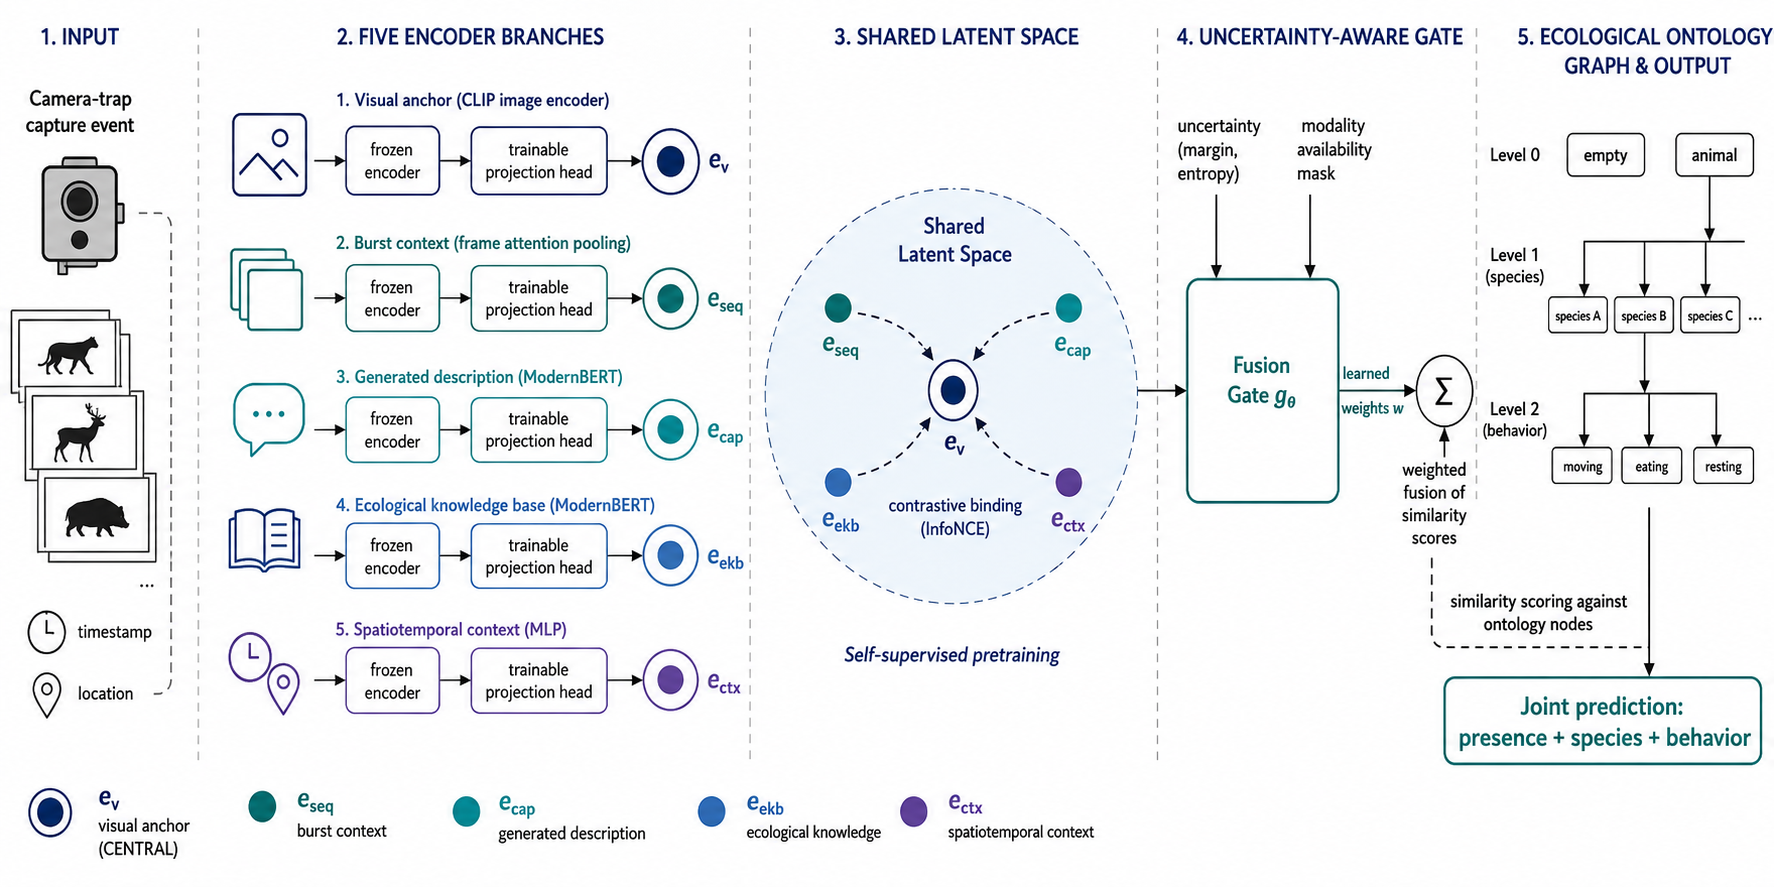
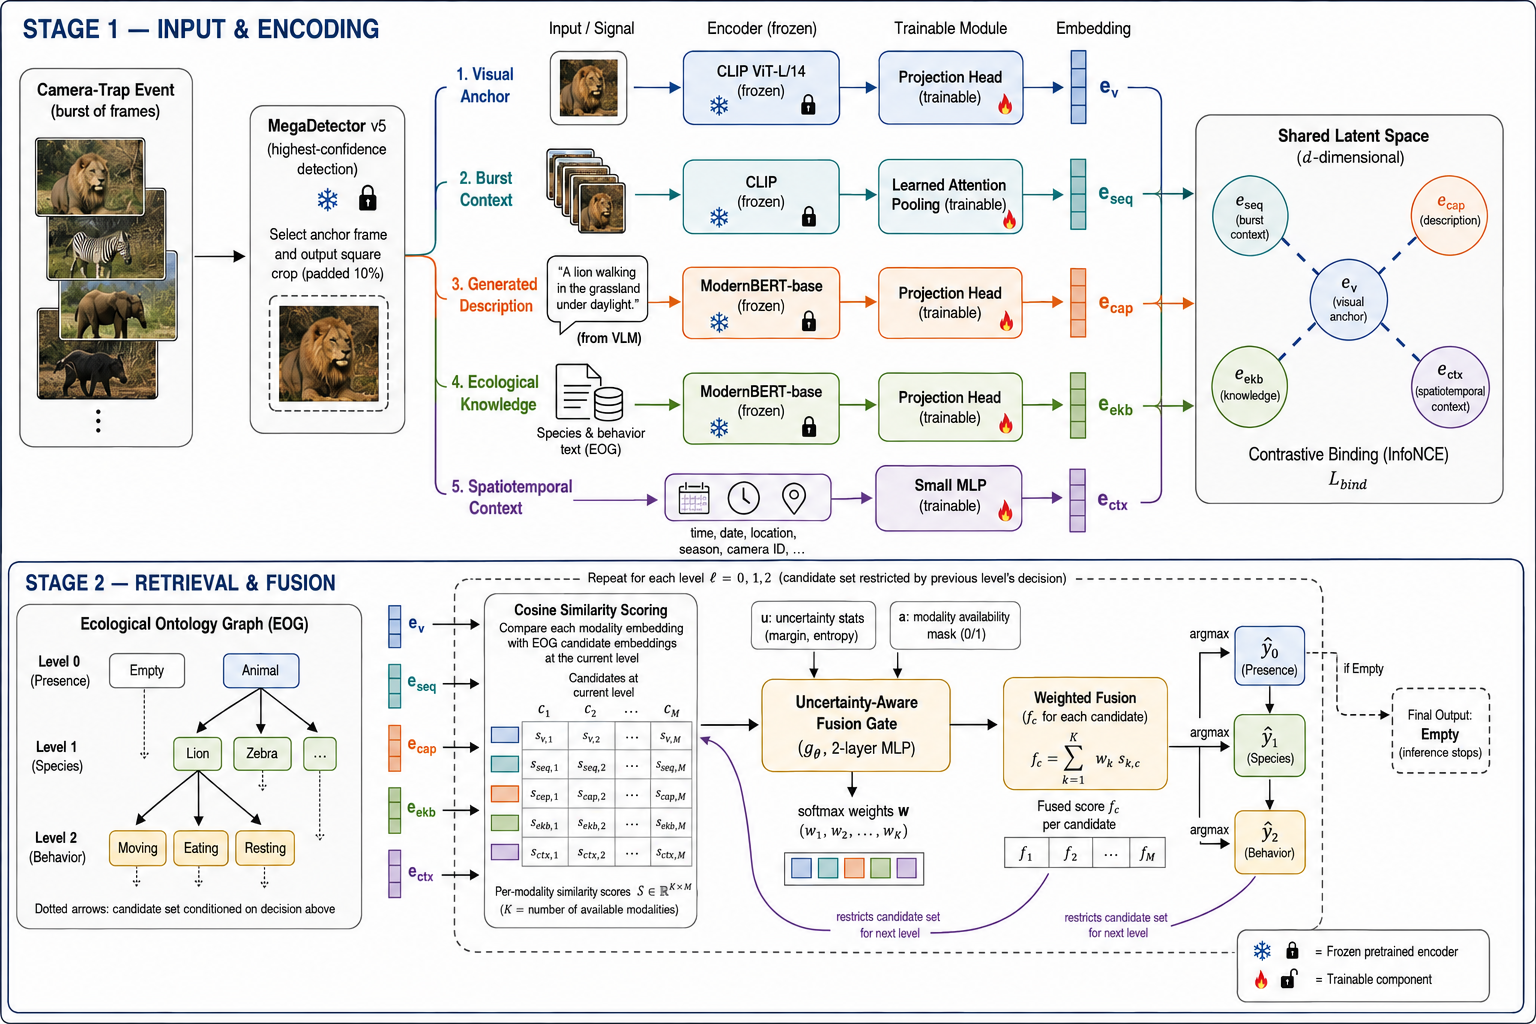
Refactor WildBind architecture description: enhance clarity in proposed architecture section and update figure caption for better understanding

Changed region(s): [[0.0, 0.0, 1.0, 1.0], [0.6875, 0.8828, 0.7812, 0.9436]]

diff --git a/latex/experiment_03.tex b/latex/experiment_03.tex
@@ -38,10 +38,18 @@ WildBind is not a simple extension of WildMatch-VLM-Fusion to more modalities, n
 
 \section{Proposed Architecture: WildBind}
 
+WildBind is organized as a two-stage architecture that integrates multimodal
+event representation with hierarchical retrieval and uncertainty-aware
+fusion. Figure~\ref{fig:wildbind_pipeline} provides an overview of the
+complete pipeline, from event-level anchor selection and multimodal
+encoding to contrastive binding, hierarchical retrieval over the
+Ecological Ontology Graph, and the final presence, species, and behavior
+predictions.
+
 \begin{figure*}[!ht]
 \centering
 \includegraphics[width=6in]{images/wildbind_pipeline.png}
-\caption{Overview of the WildBind architecture. A visual anchor embedding is contrastively bound to four peripheral modalities during self-supervised pretraining. At inference time, an uncertainty-aware gate fuses the available modality-specific similarity scores against the nodes of the Ecological Ontology Graph, producing a joint presence/species/behavior prediction.}
+\caption{Overview of the WildBind architecture. At the event level, MegaDetector v5 selects an anchor frame and crop, while five complementary modalities---visual anchor ($e_v$), burst context ($e_{seq}$), generated description ($e_{cap}$), ecological knowledge ($e_{ekb}$), and spatiotemporal context ($e_{ctx}$)---are projected into a shared latent space. The visual anchor is contrastively bound to the peripheral modalities through an InfoNCE objective. At inference time, modality-specific similarity scores are fused by an uncertainty-aware gate and evaluated hierarchically over the Ecological Ontology Graph (EOG): presence, species, and behavior. The retrieval--fusion procedure is repeated at each level with the candidate set restricted by the previous decision; if $\hat{y}_0=\mathrm{Empty}$, inference terminates without producing species or behavior predictions.}
 \label{fig:wildbind_pipeline}
 \end{figure*}
 
